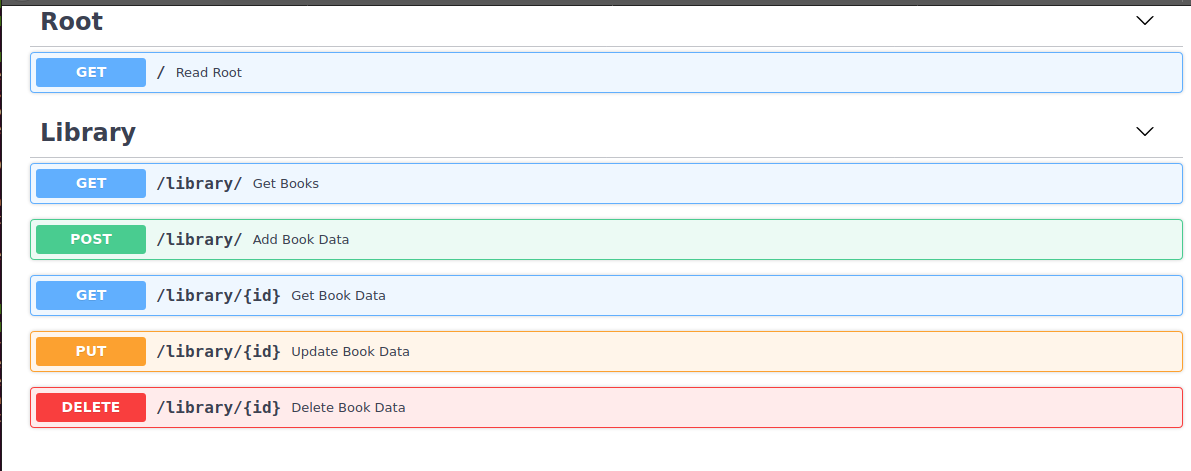
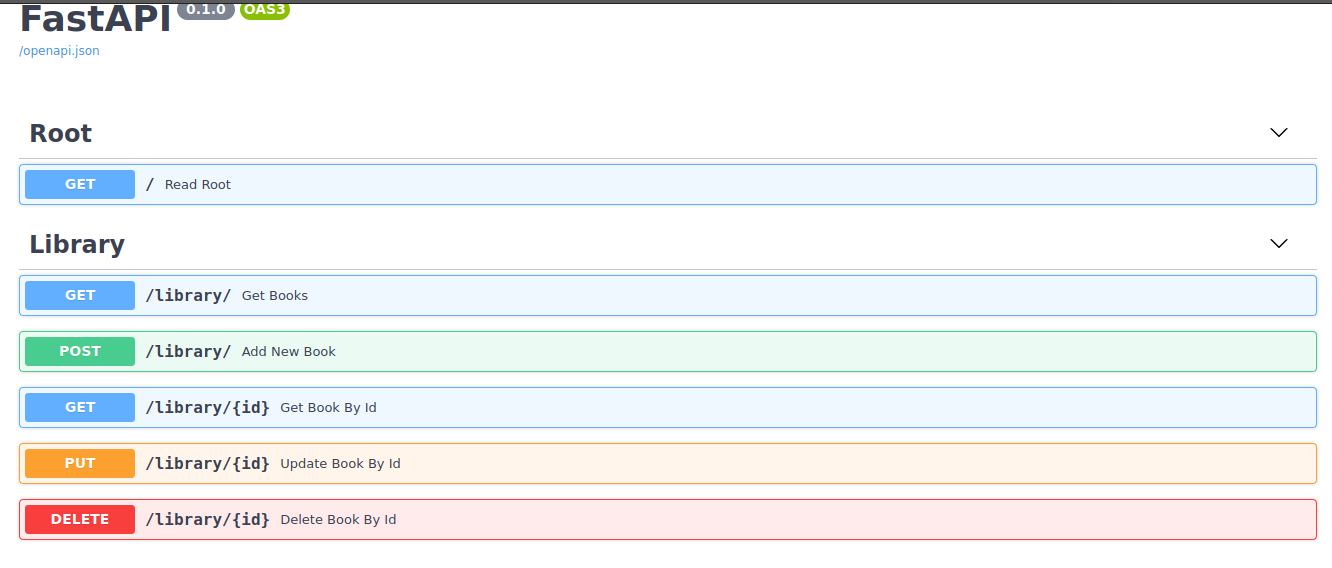
minor fix

Changed region(s): [[0.0, 0.0, 1.0, 0.9512]]

diff --git a/app/crud.py b/app/crud.py
@@ -18,7 +18,7 @@ from schemas import (
 router = APIRouter()
 
 @router.post("/", response_description="Book data added into the database")
-async def add_book_data(book: LibrarySchema = Body(...)):
+async def add_new_book(book: LibrarySchema = Body(...)):
     book= jsonable_encoder(book)
     new_book = await add_book(book)
     return ResponseModel(new_book, "Book added successfully.")
@@ -32,14 +32,14 @@ async def get_books():
 
 
 @router.get("/{id}", response_description="Book data retrieved")
-async def get_book_data(id):
+async def get_book_by_id(id):
     book = await retrieve_book(id)
     if book:
         return ResponseModel(book, "book data retrieved successfully")
     return ErrorResponseModel("An error occurred.", 404, "book doesn't exist.")
 
 @router.put("/{id}")
-async def update_book_data(id: str, req: UpdateLibraryModel = Body(...)):
+async def update_book_by_id(id: str, req: UpdateLibraryModel = Body(...)):
     req = {k: v for k, v in req.dict().items() if v is not None}
     updated_book = await update_book(id, req)
     if updated_book:
@@ -54,7 +54,7 @@ async def update_book_data(id: str, req: UpdateLibraryModel = Body(...)):
     )
 
 @router.delete("/{id}", response_description="book data deleted from the database")
-async def delete_book_data(id: str):
+async def delete_book_by_id(id: str):
     deleted_book = await delete_book(id)
     if deleted_book:
         return ResponseModel(
